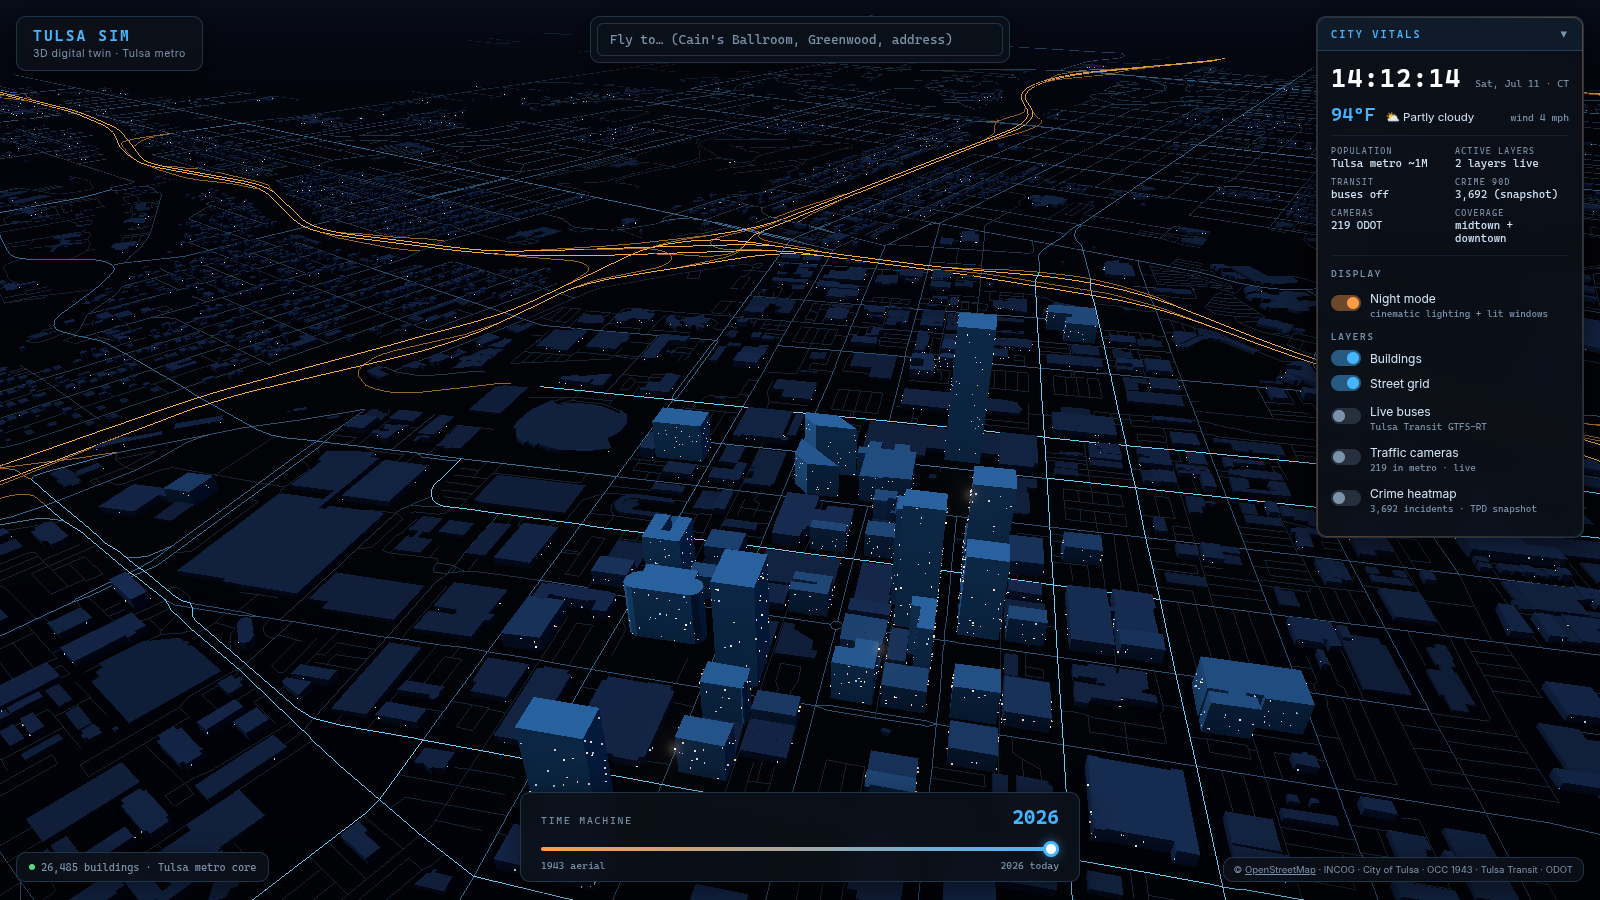
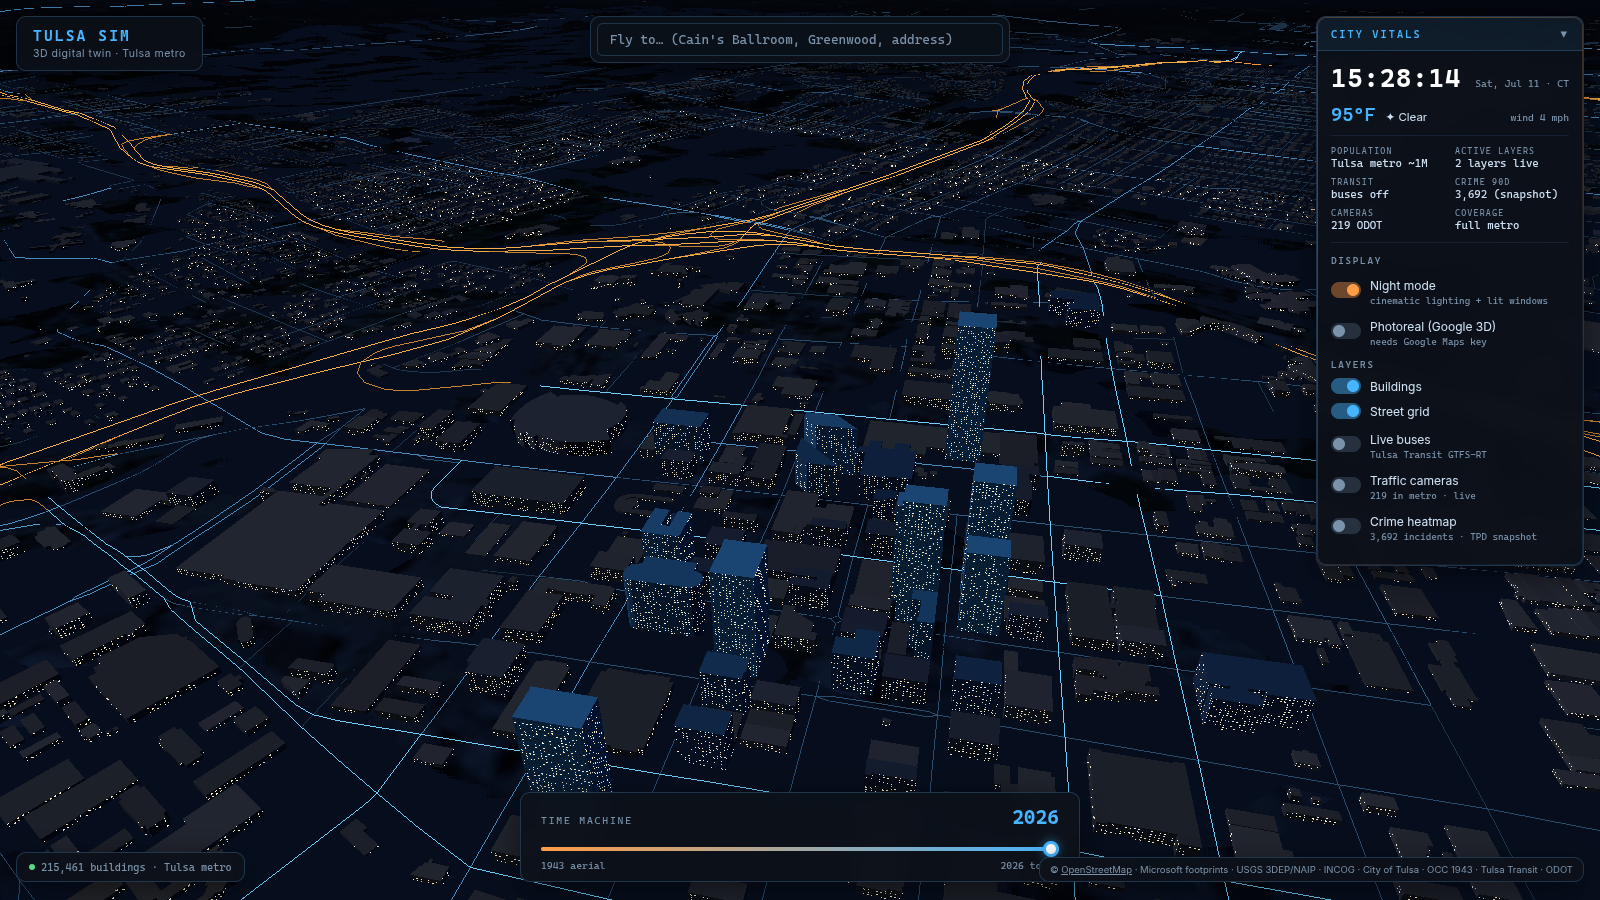
docs: Phase 3 README (real heights, tile streaming, terrain, photoreal) + verify.mjs Phase 3 checks

diff --git a/src/main.ts b/src/main.ts
@@ -10,7 +10,7 @@ import { TransitLayer } from './layers/transit';
 import { CamerasLayer } from './layers/cameras';
 import { PhotorealLayer, getStoredKey, storeKey } from './layers/photoreal';
 import { localToLL, llToLocal } from './geo/projection';
-import { loadTerrain } from './geo/terrain';
+import { loadTerrain, terrainReady, elevation } from './geo/terrain';
 import {
   initPopup,
   showLoading,
@@ -295,6 +295,16 @@ Object.assign(window as unknown as Record<string, unknown>, {
     buses: () => transit.buses,
     tileStats: () => ({ tiles: buildings.loadedTiles, buildings: buildings.count }),
     fps: () => city.fps,
+    renderInfo: () => ({
+      calls: city.renderer.info.render.calls,
+      triangles: city.renderer.info.render.triangles,
+      geometries: city.renderer.info.memory.geometries,
+    }),
+    elevationAt: (lon: number, lat: number) => {
+      if (!terrainReady()) return null;
+      const [x, z] = llToLocal(lon, lat);
+      return elevation(x, z);
+    },
   },
 });
 

diff --git a/README.md b/README.md
@@ -1,10 +1,10 @@
 # Tulsa Sim — 3D Digital Twin
 
-Interactive 3D digital twin of Tulsa, Oklahoma, inspired by [nycsim.com](https://nycsim.com). Procedural city built from real geospatial data: OSM building extrusions, INCOG assessor parcel intelligence, an aggregated crime heatmap, a historical time scrubber back to the 1943 aerial survey — and, since Phase 2, live Tulsa Transit buses, ODOT traffic cameras, a City Vitals dashboard, and a cinematic night mode.
+Interactive 3D digital twin of Tulsa, Oklahoma, inspired by [nycsim.com](https://nycsim.com). A full-metro procedural city built from real geospatial data: **215,000+ buildings with real heights** streamed as binary tiles, USGS 3DEP terrain with aerial imagery drape, INCOG assessor parcel intelligence, live Tulsa Transit buses, ODOT traffic cameras, an aggregated crime heatmap, a City Vitals dashboard, and a historical time scrubber back to the 1943 aerial survey.
 
 ![Night city with City Vitals dashboard](docs/screenshot-city.png)
 
-![1943 aerial time scrub](docs/screenshot-1943.png)
+![1943 aerial time scrub draped on terrain](docs/screenshot-1943.png)
 
 ## Quick start
 
@@ -13,69 +13,82 @@ npm install
 npm run dev
 ```
 
-Open http://localhost:5173. No API keys required — all data sources are public.
+Open http://localhost:5173. No API keys required — all core data sources are public. (The optional Photoreal mode takes a Google Maps Platform key at runtime; nothing is committed.)
 
 ## Features
 
-### Phase 1 (city base)
+### City model (Phase 3 fidelity)
 
-- **3D city base** — extruded OSM building footprints and the OSM street network, colored by height with a glowing street grid. Coordinates are normalized to a local origin at 4th & Boston to avoid float32 jitter.
-- **Parcel intelligence** — click any building or the ground: a raycast finds the map point, and a live spatial-join query against the INCOG Tulsa County assessor FeatureServer returns owner, address, fair cash value, taxable value, land/improvement split, year built, and last sale. Results are cached in memory; the parcel boundary is highlighted in the scene.
-- **Crime heatmap** — toggleable, warm-colored heat surface aggregated to ~160 m (block-scale) grid cells, with an optional category filter. Individual incidents are never shown at building precision.
-- **Time machine** — scrub the timeline from 2026 back to 1943: modern buildings fade to ghosts and the 1943 black-and-white aerial survey (flown July–August 1943, ~20" resolution) drapes onto the ground via the INCOG ImageServer. The era model supports adding 1967/1921 keyframes later.
-- **Navigation** — orbit/zoom/pan controls, plus a fly-to search with hardcoded landmarks (Cain's Ballroom, Greenwood, BOK Tower, Expo Square, …) and Nominatim geocoding fallback.
+- **Full metro, real heights** — every building in the metro bbox (`36.02,-96.15 → 36.25,-95.75`). Footprints are a hybrid: **OSM ways** (72.9k, architectural outlines, best downtown) merged with **Microsoft ML Building Footprints** (145k gap-fill where OSM has no coverage). Heights come from OSM `height`/`building:levels` tags where surveyed (2.2k), Microsoft's ML height estimates transferred onto untagged OSM footprints (50.8k), and seeded residential defaults for the rest.
+- **Binary tile streaming with LOD** — buildings bake to 259 compact binary tiles (2 km grid, decimeter-quantized rings, ~8 MB total). At runtime tiles stream around the camera: full extrusions + facade shader within 2.6 km, mid detail to 7 km, large-footprint-only to 19 km. Streets stream the same way with an always-on major-roads overlay.
+- **Terrain + imagery** — ground is a displaced heightfield from the **USGS 3DEP** DEM (the Arkansas River valley, Turkey Mountain, and the Osage hills are real relief), draped with **USGS ImageryOnly** aerial photography (metro sheet + 12 km downtown inset). Buildings, streets, buses, cameras, crime cells, and parcel highlights all sit on the terrain.
+- **Procedural facades** — a custom shader injects a world-scale window grid into every near-LOD wall: dark glass by day, seeded lit panes by night (picked up by bloom). Small residential footprints get hip-style roofs; land-use codes from OSM polygons tint walls (residential warm, commercial steel-blue, industrial gray).
+- **Photoreal mode (optional)** — toggle streams **Google Photorealistic 3D Tiles** (true photogrammetry) re-based from ECEF into the local scene frame, with data overlays still live on top. Requires a Google Maps Platform key entered in the panel (stored in localStorage only; key-gated toggle otherwise).
 
-### Phase 2 (polish)
+### Live layers & intelligence
 
-- **City Vitals dashboard** — right-side glass panel with a live Tulsa clock (America/Chicago), current weather from Open-Meteo (temperature, conditions, wind — no API key), metro population, active-layer count, transit and crime summaries, and all layer/display toggles.
-- **Live Tulsa Transit buses** — real-time GTFS-Realtime vehicle positions polled every 15 s from the Tulsa Transit feed and decoded with a hand-rolled minimal protobuf reader (`src/data/gtfsrt.ts`, no heavy deps). Buses render as instanced bodies colored by GTFS route color, with heading arrows (feed bearing) and glow beacons. The vitals panel shows fleet count, seconds since last refresh, and a STALE flag past 60 s. If the feed fails, last-known positions are kept and the state is labeled honestly.
-- **Traffic cameras** — ~219 ODOT/OKtraffic cameras in the Tulsa metro bbox, discovered via the `oktraffic.org` LoopBack API (`/api/MapCameras`). Markers are billboard CCTV icons on masts along I-44, I-244, US-75, and the Creek Turnpike; clicking one opens a detail card with a deep link to the live view on OKtraffic.org.
-- **Night mode + cinematic look** — night is the default: moonlit hemisphere lighting, exponential fog, procedurally scattered lit windows (seeded per building, ~18k additive points), roof rim highlights, and a restrained bloom pass. An fps guard disables bloom before ever dropping buildings below 25 fps. Day mode is one toggle away.
-- **Intro fly-through** — 3-second cinematic swoop from high altitude down to downtown on load; any click/key/scroll skips it.
-- **Expanded coverage** — building/street extraction grew from the ~2 km² downtown core to the midtown bbox `36.10,-96.05 → 36.20,-95.88` (~26,500 buildings, ~25,000 street segments) with LOD rules: beyond 2 km from origin, small sheds are dropped and footprints are simplified harder. Re-bake with `node scripts/bake-data.mjs`.
+- **City Vitals dashboard** — live Tulsa clock, Open-Meteo weather, population, active-layer count, transit/crime/camera summaries, and all toggles in one glass panel.
+- **Live Tulsa Transit buses** — GTFS-Realtime vehicle positions polled every 15 s, decoded with a hand-rolled minimal protobuf reader (`src/data/gtfsrt.ts`). Instanced buses colored by route, heading arrows, glow beacons, stale-feed indicator.
+- **Traffic cameras** — ~219 ODOT/OKtraffic cameras in the metro; click a marker for details + a deep link to the live view on OKtraffic.org.
+- **Parcel intelligence** — click any building or ground point for a live INCOG assessor spatial join: owner, fair cash value, taxable value, land/improvement split, year built, last sale.
+- **Crime heatmap** — warm heat surface aggregated to ~160 m block cells with category filter. No individual incident pins.
+- **Time machine** — scrub to 1943: modern buildings fade to ghosts and the 1943 B&W aerial survey drapes over the real terrain.
+- **Night/day modes** — moonlit night with lit windows and restrained bloom (fps guard drops bloom first), or afternoon-sun day mode over aerial imagery.
+- **Navigation** — orbit/zoom/pan, landmark search with Nominatim fallback, 3-second skippable intro fly-through.
 
 ## Data sources & attribution
 
 | Layer | Source | Attribution |
 |-------|--------|-------------|
-| Building footprints, streets | [Overpass API](https://overpass-api.de) extract, pre-baked into `public/data/` | © [OpenStreetMap](https://www.openstreetmap.org/copyright) contributors, ODbL |
+| Building footprints (primary) | [OSM via Overpass](https://overpass-api.de), metro-wide | © [OpenStreetMap](https://www.openstreetmap.org/copyright) contributors, ODbL |
+| Building footprints (gap fill) + ML heights | [Microsoft Global ML Building Footprints](https://github.com/microsoft/GlobalMLBuildingFootprints) | © Microsoft, ODbL |
+| Terrain | [USGS 3DEP Elevation ImageServer](https://elevation.nationalmap.gov/arcgis/rest/services/3DEPElevation/ImageServer) | USGS, public domain |
+| Aerial imagery | [USGS ImageryOnly basemap](https://basemap.nationalmap.gov/arcgis/rest/services/USGSImageryOnly/MapServer) (NAIP composite) | USGS / USDA, public domain |
+| Land use | OSM `landuse`/`leisure`/`natural` polygons | © OpenStreetMap contributors, ODbL |
 | Parcels / assessor | [INCOG Parcels_TulsaCo FeatureServer](https://map11.incog.org/arcgis11wa/rest/services/Parcels_TulsaCo/FeatureServer/0) (live queries) | INCOG / Tulsa County Assessor |
-| Crime | Live: CFS FeatureServer from spec; fallback: bundled snapshot of the public "Tulsa Crime" ArcGIS layer (TPD RMS extract, 2016–2019) | City of Tulsa / Tulsa Police Department |
-| 1943 aerial | [INCOG Aerial_1943BW ImageServer](https://map11.incog.org/arcgis11wa/rest/services/Aerial_1943BW/ImageServer) (live `exportImage`) | Oklahoma Corporation Commission, via INCOG |
-| Live bus positions | [Tulsa Transit GTFS-Realtime](https://tulsa.rideralerts.com/InfoPoint/GTFS-Realtime.ashx?Type=VehiclePosition) + [GTFS static](https://gtfs.tulsatransit.org/) route metadata baked to `public/data/transit-routes.json` | MetroLink Tulsa (Tulsa Transit) |
-| Traffic cameras | [OKtraffic](https://oktraffic.org) `api/MapCameras`, snapshot baked to `public/data/cameras.json` (live-refreshed through a dev proxy) | Oklahoma DOT / OKtraffic |
-| Weather | [Open-Meteo forecast API](https://open-meteo.com/) (no key) | Open-Meteo.com |
+| Crime | Live: CFS FeatureServer from spec; fallback: bundled TPD snapshot (2016–2019) | City of Tulsa / TPD |
+| 1943 aerial | [INCOG Aerial_1943BW ImageServer](https://map11.incog.org/arcgis11wa/rest/services/Aerial_1943BW/ImageServer) | Oklahoma Corporation Commission, via INCOG |
+| Live bus positions | [Tulsa Transit GTFS-RT](https://tulsa.rideralerts.com/InfoPoint/GTFS-Realtime.ashx?Type=VehiclePosition) + GTFS static | MetroLink Tulsa |
+| Traffic cameras | [OKtraffic](https://oktraffic.org) `api/MapCameras` (snapshot + dev proxy) | Oklahoma DOT |
+| Weather | [Open-Meteo](https://open-meteo.com/) | Open-Meteo.com |
+| Photoreal mode (optional) | [Google Photorealistic 3D Tiles](https://developers.google.com/maps/documentation/tile/3d-tiles) via `3d-tiles-renderer` | © Google; requires user-supplied API key |
 
 ## Known limitations
 
-- **Crime data**: calls-for-service / RMS extracts are *not* full police reports — they include unfounded calls and exclude some sensitive incident types. The CFS endpoint listed in the project spec currently serves data geocoded outside Tulsa (it is queried live first regardless); when it returns no Tulsa records the app falls back to a bundled 2016–2019 TPD incident snapshot and labels the source in the layer toggle ("TPD snapshot"). Swap in a current Tulsa CFS FeatureServer URL in `src/layers/crime.ts` when one is available.
-- **1943 aerial**: bird's-eye photography, not street level; resolution ~20 inches. The drape covers ~8.4 km × 8.4 km around downtown.
-- **Camera stills**: OKtraffic video streams are negotiated per session behind their backend (`startStream`), and no stable public still-image URL pattern exists, so camera cards deep-link to the official OKtraffic map instead of embedding frames. The camera *list* API also sends no CORS headers — the Vite dev server proxies it (`/oktraffic-api`); static hosting falls back to the baked snapshot.
-- **Bus service hours**: outside Tulsa Transit service hours the GTFS-RT feed legitimately reports few or no vehicles; the vitals panel shows "no vehicles reporting" rather than hiding the layer.
-- **Coverage**: midtown bbox (`36.10,-96.05,36.20,-95.88`) rather than the full metro — the full-metro extract (~73k buildings) is beyond the 30 fps target on SwiftShader/laptop GPUs. The bake script and projection accept the full metro bbox (`36.02,-96.15,36.25,-95.75`) when you want to try.
-- **Heights**: most OSM footprints lack height tags; unknown buildings get a stable pseudo-random 4–10 m height. Towers with `height`/`building:levels` tags are accurate.
-- **Assessor data**: INCOG parcel attributes are provided as-is; railroad/right-of-way parcels often carry no valuation.
+- **Heights**: Microsoft ML heights are estimates from imagery (they tend to underestimate towers) — surveyed OSM tags win where present; ~45% of small buildings still use seeded 3.5–8 m defaults. True lidar refinement (USGS 3DEP point clouds) is the next step; the bake pipeline (`scripts/bake-metro.mjs`) is structured to slot per-footprint DSM sampling in.
+- **Terrain resolution**: the baked heightfield is ~50 m/px — good for valleys and hills, too coarse for curbs/embankments. Buildings sink a 1.5 m foundation to hide slope steps.
+- **Imagery**: the downtown inset is ~3 m/px and the metro sheet ~9 m/px; street-level closeups blur. Photoreal mode covers that when a key is provided.
+- **Photoreal mode**: implemented against the standard `3d-tiles-renderer` + `GoogleCloudAuthPlugin` flow but not visually verified in CI (no API key available in the build environment); ECEF→ENU alignment math is standard and documented in `src/layers/photoreal.ts`.
+- **Crime data**: calls-for-service / RMS extracts are *not* full police reports. The spec's CFS endpoint currently serves no Tulsa-geocoded records, so a bundled 2016–2019 TPD snapshot is labeled and used as fallback.
+- **Camera stills**: OKtraffic streams are session-negotiated; camera cards deep-link to the official map instead of embedding frames. The camera list API sends no CORS headers (dev proxy / baked snapshot).
+- **Bus service hours**: outside service hours the GTFS-RT feed legitimately reports few or no vehicles.
+- **1943 aerial**: bird's-eye, ~20 in resolution, draped over the 12 km downtown inset.
+- **Performance**: ~215k buildings stream with distance LOD; the headless CI renderer (SwiftShader, software rasterization) is not representative of real GPUs. The fps guard drops bloom before reducing building density.
 
 ## Verification
 
 ```bash
 npm run dev               # in one terminal
-node scripts/verify.mjs   # headless Phase 1 + Phase 2 checklist + 8 screenshots
+node scripts/verify.mjs   # headless Phase 1+2+3 checklist + 9 screenshots
 ```
 
 ## Data baking
 
 ```bash
-node scripts/bake-data.mjs            # everything
-node scripts/bake-data.mjs buildings  # Overpass buildings + streets (expanded bbox)
-node scripts/bake-data.mjs transit    # GTFS static routes → transit-routes.json
-node scripts/bake-data.mjs cameras    # OKtraffic snapshot → cameras.json
+node scripts/bake-metro.mjs            # terrain + streets + buildings (full metro, binary tiles)
+node scripts/bake-metro.mjs buildings  # MS ML + OSM hybrid → public/data/tiles/b_*.bin
+node scripts/bake-metro.mjs streets    # OSM highways → s_*.bin + streets-major.bin
+node scripts/bake-metro.mjs terrain    # USGS 3DEP DEM → terrain.bin
+node scripts/bake-data.mjs transit     # GTFS static routes → transit-routes.json
+node scripts/bake-data.mjs cameras     # OKtraffic snapshot → cameras.json
 ```
 
-## Phase 3 hooks (stubs in `src/layers/phase2-stubs.ts`, `src/ui/concierge.ts`)
+Downloads are cached in `.bake-cache/` (gitignored). Committed output is ~9 MB of quantized binary tiles.
 
-1921 Greenwood reconstruction (NYT open GeoJSON) · Sanborn footprints for pre-aerial eras · LLM city concierge.
+## Phase 4 hooks (stubs in `src/layers/phase2-stubs.ts`, `src/ui/concierge.ts`)
+
+Lidar-refined heights (USGS 3DEP EPT) · 1921 Greenwood reconstruction (NYT open GeoJSON) · Sanborn footprints for pre-aerial eras · LLM city concierge.
 
 ## License notes
 
-Code: MIT. Bundled OSM extracts remain under [ODbL](https://opendatacommons.org/licenses/odbl/). Assessor, crime, aerial, transit, and camera data remain subject to their providers' terms (INCOG, City of Tulsa, Oklahoma Corporation Commission, MetroLink Tulsa, ODOT).
+Code: MIT. OSM extracts under [ODbL](https://opendatacommons.org/licenses/odbl/); Microsoft ML footprints under ODbL. USGS elevation/imagery are public domain. Assessor, crime, aerial, transit, and camera data remain subject to their providers' terms (INCOG, City of Tulsa, OCC, MetroLink Tulsa, ODOT). Google 3D Tiles usage is governed by Google Maps Platform terms (user-supplied key).
